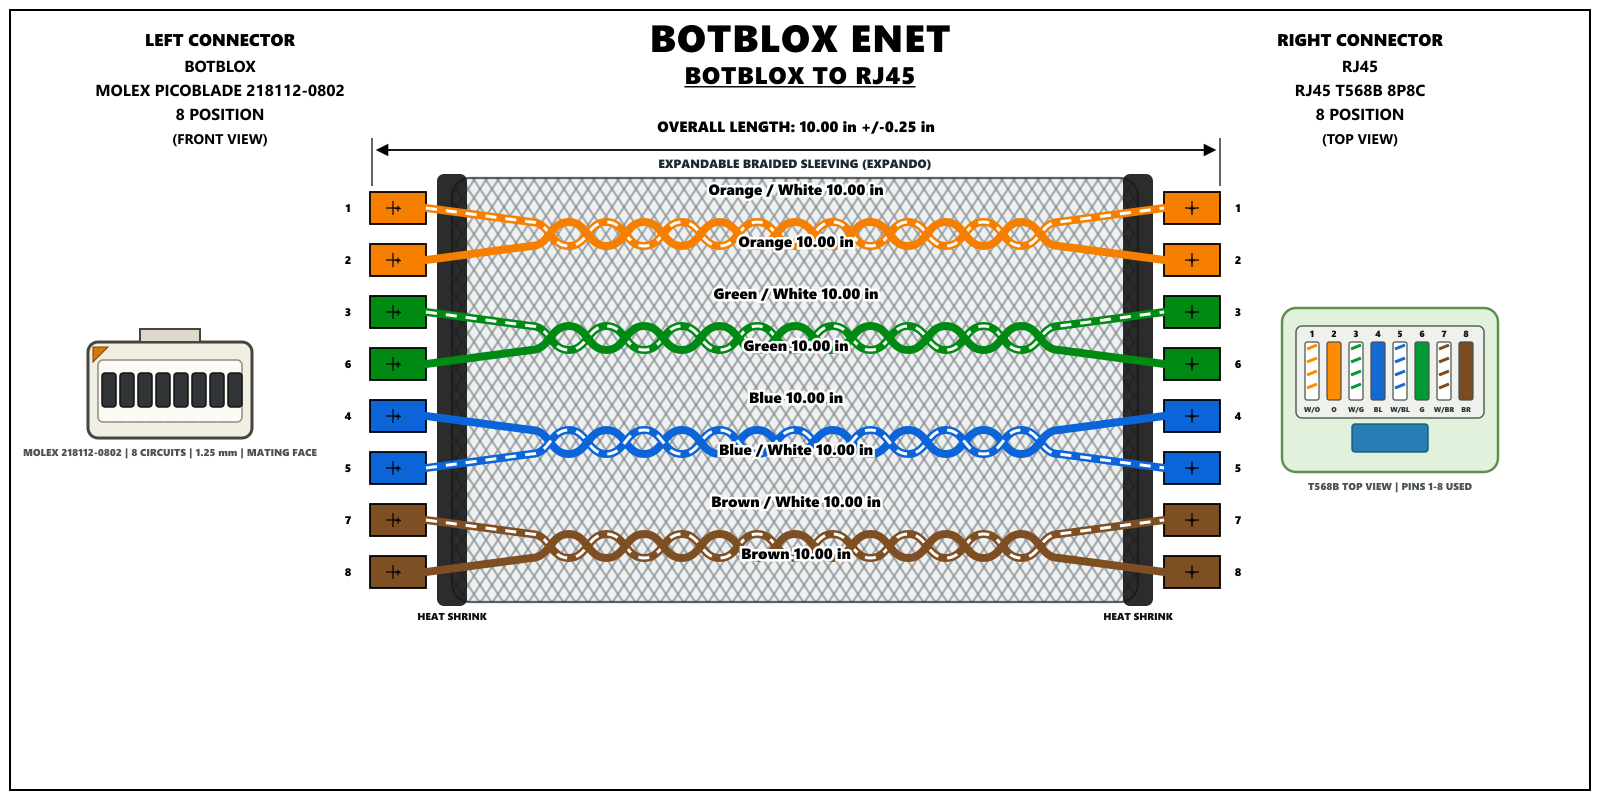
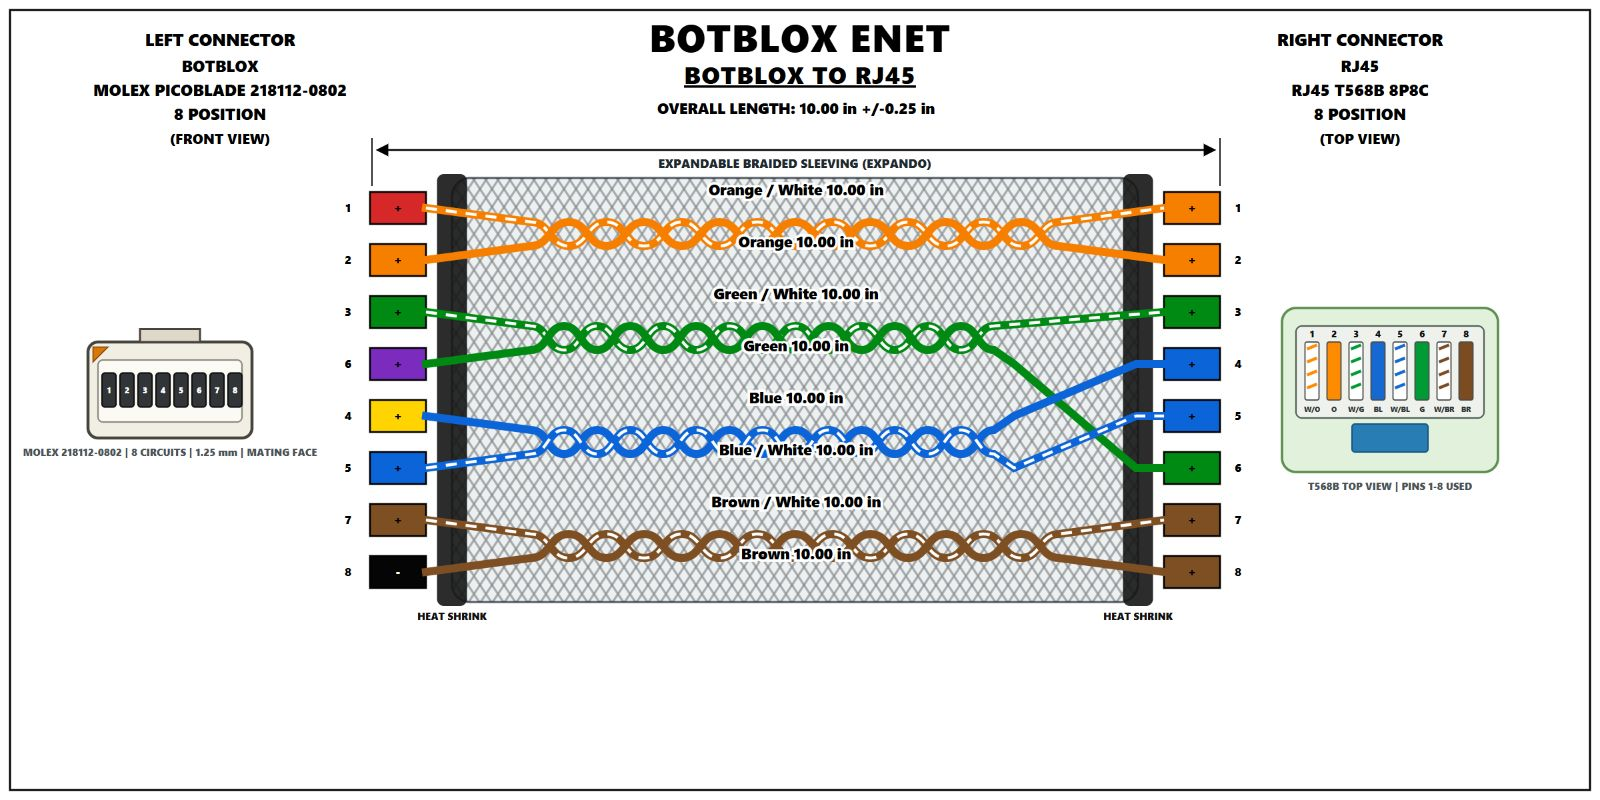
Separate left terminal colors and order RJ45 pins in v2.1.9

diff --git a/app.js b/app.js
@@ -1,6 +1,6 @@
 "use strict";
 
-const APP_VERSION = "2.1.8";
+const APP_VERSION = "2.1.9";
 const HarnessCore = globalThis.DigiWireCore;
 if (!HarnessCore) {
   throw new Error("DIGIWIRE harness-core.js must load before app.js.");
@@ -2511,8 +2511,19 @@ function analyzeSheetTwistedPairs(routes) {
 }
 
 function sheetWireRouteGeometry(route, pairAnalysis, leftX, rightX) {
+  const targetY = route.rightPinOrdered && Number.isFinite(route.rightTargetY) ? route.rightTargetY : route.y;
+  const hasRightFanout = targetY !== route.y;
   const membership = pairAnalysis.byRouteIndex.get(route.index);
   if (!membership) {
+    if (hasRightFanout) {
+      const fanoutX = rightX - 92;
+      const settleX = rightX - 28;
+      return {
+        twisted: false,
+        points: [[leftX, route.y], [fanoutX, route.y], [settleX, targetY], [rightX, targetY]],
+        svgPath: `M ${leftX} ${route.y} L ${fanoutX} ${route.y} L ${settleX} ${targetY} L ${rightX} ${targetY}`
+      };
+    }
     return {
       twisted: false,
       points: [[leftX, route.y], [rightX, route.y]],
@@ -2520,23 +2531,31 @@ function sheetWireRouteGeometry(route, pairAnalysis, leftX, rightX) {
     };
   }
   const { group, memberIndex } = membership;
+  const pairHasRightFanout = group.routes.some((wire) => wire.rightPinOrdered && Number.isFinite(wire.rightTargetY) && wire.rightTargetY !== wire.y);
   const pairMidY = average(group.routes.map((item) => item.y));
   const separation = Math.abs(group.routes[0].y - group.routes[1].y);
   const amplitude = clamp(separation * 0.36, 7, 12);
   const sign = memberIndex === 0 ? -1 : 1;
   const twistStartX = leftX + 105;
-  const twistEndX = rightX - 105;
+  const twistEndX = rightX - (pairHasRightFanout ? 170 : 105);
   const halfWaveCount = 14;
   const halfWaveWidth = (twistEndX - twistStartX) / halfWaveCount;
   const wavePoints = Array.from({ length: halfWaveCount + 1 }, (_, index) => [
     twistStartX + index * halfWaveWidth,
     pairMidY + sign * amplitude * (index % 2 ? -1 : 1)
   ]);
-  const points = [[leftX, route.y], ...wavePoints, [rightX, route.y]];
+  const fanoutStartX = twistEndX + 20;
+  const settleX = rightX - 28;
+  const points = hasRightFanout
+    ? [[leftX, route.y], ...wavePoints, [fanoutStartX, route.y], [settleX, targetY], [rightX, targetY]]
+    : [[leftX, route.y], ...wavePoints, [rightX, route.y]];
+  const svgPath = hasRightFanout
+    ? `${smoothTwistedPairSvgPath([[leftX, route.y], ...wavePoints, [fanoutStartX, route.y]])} L ${settleX} ${targetY} L ${rightX} ${targetY}`
+    : smoothTwistedPairSvgPath(points);
   return {
     twisted: true,
     points,
-    svgPath: smoothTwistedPairSvgPath(points)
+    svgPath
   };
 }
 
@@ -5531,6 +5550,7 @@ function buildKiCadHarnessModel(sheet) {
     const leftWireName = sheetRowLeftWireName(row, `WIRE ${index + 1}`);
     const rightWireName = sheetRowRightWireName(row, `WIRE ${index + 1}`);
     const colorSource = kiCadWireColorSource(row, useRightT568bColors);
+    const leftTerminalColorSource = isRecognizedWireColor(row.color) ? row.color : colorSource;
     return {
       index,
       row,
@@ -5540,6 +5560,9 @@ function buildKiCadHarnessModel(sheet) {
       colorName: normalizeColorName(colorSource),
       colorLabel: normalizeWireColorLabel(colorSource),
       stroke: sheetColorToStroke(colorSource),
+      leftTerminalColorName: normalizeColorName(leftTerminalColorSource),
+      leftTerminalColorLabel: normalizeWireColorLabel(leftTerminalColorSource),
+      leftTerminalStroke: sheetColorToStroke(leftTerminalColorSource),
       awg: row.awg || awg,
       length: row.length || length,
       fromPin: row.leftPinPos || String(index + 1),
@@ -5560,8 +5583,20 @@ function buildKiCadHarnessModel(sheet) {
   const rightConnectorIsRj45 = normalizeText(`${rightName} ${rightType} ${rightHousingPart}`).includes("RJ45");
   if (rightConnectorIsRj45 && rightConnectorGroups.length === 1) {
     wires.forEach((wire) => {
-      wire.rightTargetY = wire.y;
+      const pin = numericPin(wire.toPin);
+      wire.rightPinOrdered = useRightT568bColors;
+      wire.rightTargetY = useRightT568bColors && Number.isFinite(pin) ? wireStartY + (pin - 1) * wireGap : wire.y;
     });
+    if (useRightT568bColors) {
+      const group = rightConnectorGroups[0];
+      group.slots.forEach((slot) => {
+        if (slot.wire) {
+          slot.y = slot.wire.rightTargetY;
+        }
+      });
+      group.top = wireStartY - 24;
+      group.bottom = wireStartY + (Math.max(1, group.positionCount) - 1) * wireGap + 24;
+    }
   }
   if (hasMultipleRightConnectors) {
     alignKiCadWiresToRightConnectorGroups(wires, rightConnectorGroups);
@@ -6232,8 +6267,8 @@ function buildKiCadHarnessSvg(result, model) {
   <line class="dim-ext" x1="372" y1="138" x2="372" y2="186" />
   <line class="dim-ext" x1="1220" y1="138" x2="1220" y2="186" />
   <line class="dimension" x1="382" y1="150" x2="1210" y2="150" />
-  <rect class="dim-label-bg" x="630" y="112" width="332" height="28" rx="5" />
-  <text class="dim-text" x="796" y="132">OVERALL LENGTH: ${escapeXml(formatLengthMeasurement(displayModel.length))} +/-0.25 in</text>
+  <rect class="dim-label-bg" x="630" y="94" width="332" height="28" rx="5" />
+  <text class="dim-text" x="796" y="114">OVERALL LENGTH: ${escapeXml(formatLengthMeasurement(displayModel.length))} +/-0.25 in</text>
 
   ${buildHorizontalProtectionSvg({
     x1: 452,
@@ -6724,13 +6759,14 @@ function buildKiCadRj45ConnectorFaceSvg(x, wires, connector, side) {
   wires.forEach((wire) => {
     const pin = side === "left" ? wire.fromPin : wire.toPin;
     const pinX = side === "left" ? 348 : 1238;
-    output.push(`<text class="pin-label-compact" x="${pinX}" y="${wire.y + 4}">${escapeXml(pin)}</text>`);
+    const pinY = side === "right" && wire.rightPinOrdered && Number.isFinite(wire.rightTargetY) ? wire.rightTargetY : wire.y;
+    output.push(`<text class="pin-label-compact" x="${pinX}" y="${pinY + 4}">${escapeXml(pin)}</text>`);
   });
   return output.join("");
 }
 
 function buildKiCadPicoBladeConnectorFaceSvg(x, wires, connector, side) {
-  const slots = buildKiCadConnectorSlots(wires, connector, side);
+  const slots = buildKiCadConnectorSlots(wires, connector, side).sort((left, right) => numericPin(left.pin) - numericPin(right.pin));
   const centerY = (wires[0].y + wires[wires.length - 1].y) / 2;
   const faceX = x - 82;
   const faceY = centerY - 48;
@@ -6746,7 +6782,7 @@ function buildKiCadPicoBladeConnectorFaceSvg(x, wires, connector, side) {
   slots.forEach((slot, index) => {
     const slotX = faceX + 14 + index * 18;
     output.push(`<rect class="${slot.wire ? "picoblade-cavity" : "picoblade-cavity-unused"}" x="${slotX}" y="${faceY + 31}" width="14" height="34" rx="3" />`);
-    output.push(`<text class="picoblade-pin" x="${slotX + 7}" y="${faceY + 79}">${escapeXml(slot.pin)}</text>`);
+    output.push(`<text class="picoblade-pin" x="${slotX + 7}" y="${faceY + 51}">${escapeXml(slot.pin)}</text>`);
   });
   output.push(`<text class="connector-unused-note" x="${faceX + width / 2}" y="${faceY + height + 18}">MOLEX 218112-0802 | 8 CIRCUITS | 1.25 mm | MATING FACE</text>`);
   output.push(`</g>`);
@@ -6907,22 +6943,21 @@ function buildKiCadWireSvg(wire, {
   pairAnalysis = { byRouteIndex: new Map() }
 } = {}) {
   const color = wire.stroke;
-  const textColorClass = wire.colorName === "RED" ? "table-red" : "table-text";
+  const leftTerminalColor = wire.leftTerminalStroke || color;
+  const leftTerminalColorName = wire.leftTerminalColorName || wire.colorName;
+  const targetY = wire.rightPinOrdered && Number.isFinite(wire.rightTargetY) ? wire.rightTargetY : wire.y;
   const terminalHeight = compact ? 18 : 32;
   const terminalHalf = terminalHeight / 2;
-  const markHalf = compact ? 4 : 7;
   const wireStartX = leftPcb ? 300 : 426;
   const wireEndX = rightPcb ? 1316 : 1164;
   const colorSpec = wireColorSpec(wire.colorLabel || wire.colorName || wire.row?.color);
   const routeGeometry = sheetWireRouteGeometry(wire, pairAnalysis, wireStartX, wireEndX);
   const leftTerminal = leftPcb ? "" : `
-  <rect class="terminal" x="370" y="${wire.y - terminalHalf}" width="56" height="${terminalHeight}" fill="${color}" />
-  <path class="terminal-mark" d="M 393 ${wire.y - markHalf} L 393 ${wire.y + markHalf} M ${393 - markHalf} ${wire.y} L ${393 + markHalf} ${wire.y}" />
-  <text class="${textColorClass}" x="398" y="${wire.y + 4}">${escapeXml(wire.colorName === "BLACK" ? "-" : "+")}</text>`;
+  <rect class="terminal" x="370" y="${wire.y - terminalHalf}" width="56" height="${terminalHeight}" fill="${leftTerminalColor}" />
+  <text class="table-text" style="fill:${leftTerminalColorName === "BLACK" ? "#ffffff" : "#000000"}" x="398" y="${wire.y + 4}">${escapeXml(leftTerminalColorName === "BLACK" ? "-" : "+")}</text>`;
   const rightTerminal = rightPcb ? "" : `
-  <rect class="terminal" x="1164" y="${wire.y - terminalHalf}" width="56" height="${terminalHeight}" fill="${color}" />
-  <path class="terminal-mark" d="M 1192 ${wire.y - markHalf} L 1192 ${wire.y + markHalf} M ${1192 - markHalf} ${wire.y} L ${1192 + markHalf} ${wire.y}" />
-  <text class="${textColorClass}" x="1192" y="${wire.y + 4}">${escapeXml(wire.colorName === "BLACK" ? "-" : "+")}</text>`;
+  <rect class="terminal" x="1164" y="${targetY - terminalHalf}" width="56" height="${terminalHeight}" fill="${color}" />
+  <text class="table-text" style="fill:${wire.colorName === "BLACK" ? "#ffffff" : "#000000"}" x="1192" y="${targetY + 4}">${escapeXml(wire.colorName === "BLACK" ? "-" : "+")}</text>`;
   return `
   ${leftTerminal}
   ${rightTerminal}
@@ -9839,18 +9874,20 @@ function buildKiCadHarnessDrawioXml(result, model) {
     const wireStartX = leftIsPcb ? 300 : 426;
     const wireEndX = rightIsPcb ? 1316 : 1164;
     const twistGeometry = sheetWireRouteGeometry(wire, pairAnalysis, wireStartX, wireEndX);
-    const wirePoints = twistGeometry.twisted
+    const wirePoints = twistGeometry.twisted || wire.rightPinOrdered
       ? twistGeometry.points
       : [[wireStartX, wire.y], [wireEndX, targetY]];
-    const terminalStyle = `rounded=0;whiteSpace=wrap;html=1;fillColor=${wire.stroke};strokeColor=#000000;strokeWidth=2;fontStyle=1;fontColor=${wire.colorName === "BLACK" ? "#ffffff" : "#000000"};`;
+    const leftTerminalColorName = wire.leftTerminalColorName || wire.colorName;
+    const leftTerminalStyle = `rounded=0;whiteSpace=wrap;html=1;fillColor=${wire.leftTerminalStroke || wire.stroke};strokeColor=#000000;strokeWidth=2;fontStyle=1;fontColor=${leftTerminalColorName === "BLACK" ? "#ffffff" : "#000000"};`;
+    const rightTerminalStyle = `rounded=0;whiteSpace=wrap;html=1;fillColor=${wire.stroke};strokeColor=#000000;strokeWidth=2;fontStyle=1;fontColor=${wire.colorName === "BLACK" ? "#ffffff" : "#000000"};`;
     if (!leftIsCircular && !leftIsPcb && !leftIsPicoBlade) {
       addVertex(`left_cavity_${index}`, "", 194, wire.y - 17, 38, 34, "rounded=1;whiteSpace=wrap;html=1;fillColor=#000000;strokeColor=#000000;strokeWidth=1;");
     }
     if (!leftIsPcb) {
-      addVertex(`left_term_${index}`, wire.colorName === "BLACK" ? "-" : "+", 370, wire.y - 16, 56, 32, terminalStyle);
+      addVertex(`left_term_${index}`, leftTerminalColorName === "BLACK" ? "-" : "+", 370, wire.y - 16, 56, 32, leftTerminalStyle);
     }
     if (!rightIsPcb) {
-      addVertex(`right_term_${index}`, wire.colorName === "BLACK" ? "-" : "+", 1164, targetY - 16, 56, 32, terminalStyle);
+      addVertex(`right_term_${index}`, wire.colorName === "BLACK" ? "-" : "+", 1164, targetY - 16, 56, 32, rightTerminalStyle);
     }
     addRoutedEdge(
       `wire_${index}`,
@@ -9909,7 +9946,6 @@ function buildKiCadHarnessDrawioXml(result, model) {
   // Add pin numbers last so they remain above wires, terminals, and connector faces.
   model.wires.forEach((wire, index) => {
     const targetY = rightIsPcb ? wire.y : wire.rightTargetY || wire.y;
-    const pinFontColor = wire.colorName === "BLACK" ? "#ffffff" : "#000000";
     addVertex(
       `left_pin_num_${index}`,
       wire.fromPin,
@@ -9917,7 +9953,7 @@ function buildKiCadHarnessDrawioXml(result, model) {
       wire.y - 14,
       55,
       28,
-      `text;html=1;strokeColor=none;fillColor=none;labelBackgroundColor=none;fontSize=16;fontStyle=1;fontColor=${pinFontColor};align=center;`
+      "text;html=1;strokeColor=none;fillColor=none;labelBackgroundColor=none;fontSize=16;fontStyle=1;fontColor=#000000;align=center;"
     );
     if (!rightIsPcb) {
       addVertex(
@@ -9927,7 +9963,7 @@ function buildKiCadHarnessDrawioXml(result, model) {
         targetY - 14,
         55,
         28,
-        `text;html=1;strokeColor=none;fillColor=none;labelBackgroundColor=none;fontSize=16;fontStyle=1;fontColor=${pinFontColor};align=center;`
+        "text;html=1;strokeColor=none;fillColor=none;labelBackgroundColor=none;fontSize=16;fontStyle=1;fontColor=#000000;align=center;"
       );
     }
   });
@@ -10229,7 +10265,7 @@ function addKiCadDrawioRj45Face(addVertex, connector, wires, side) {
 }
 
 function addKiCadDrawioPicoBladeFace(addVertex, connector, wires, side) {
-  const slots = buildKiCadConnectorSlots(wires, connector, side);
+  const slots = buildKiCadConnectorSlots(wires, connector, side).sort((left, right) => numericPin(left.pin) - numericPin(right.pin));
   const centerY = (wires[0].y + wires[wires.length - 1].y) / 2;
   const faceX = side === "left" ? 88 : 1278;
   const faceY = centerY - 48;

diff --git a/index.html b/index.html
@@ -3,8 +3,8 @@
   <head>
     <meta charset="utf-8">
     <meta name="viewport" content="width=device-width, initial-scale=1">
-    <title>DIGIWIRE v2.1.8</title>
-    <link rel="stylesheet" href="styles.css?v=2.1.8">
+    <title>DIGIWIRE v2.1.9</title>
+    <link rel="stylesheet" href="styles.css?v=2.1.9">
   </head>
   <body>
     <main class="app-shell">
@@ -135,7 +135,7 @@
 
     <canvas id="workCanvas" hidden></canvas>
     <script src="vendor/tesseract/tesseract.min.js" defer></script>
-    <script src="harness-core.js?v=2.1.8" defer></script>
-    <script src="app.js?v=2.1.8" defer></script>
+    <script src="harness-core.js?v=2.1.9" defer></script>
+    <script src="app.js?v=2.1.9" defer></script>
   </body>
 </html>

diff --git a/desktop/WiringHarnessDesigner.cs b/desktop/WiringHarnessDesigner.cs
@@ -8,8 +8,8 @@ using System.Windows.Forms;
 [assembly: AssemblyDescription("Offline sketch-to-schematic wiring harness reader")]
 [assembly: AssemblyCompany("DIGIWIRE")]
 [assembly: AssemblyProduct("DIGIWIRE")]
-[assembly: AssemblyVersion("2.1.8.0")]
-[assembly: AssemblyFileVersion("2.1.8.0")]
+[assembly: AssemblyVersion("2.1.9.0")]
+[assembly: AssemblyFileVersion("2.1.9.0")]
 
 internal static class WiringHarnessDesignerProgram
 {

diff --git a/README.md b/README.md
@@ -4,9 +4,9 @@ A streamlined Excel-to-Draw.io wiring harness converter and editor.
 
 **Live app:** https://darnell-ai.github.io/wiring-harness-designer/
 
-Current release: **v2.1.8**
+Current release: **v2.1.9**
 
-DigiWire 2.1.8 renders complete T568B RJ45 harnesses using the right-side wire names and stripe patterns: white/orange, orange, white/green, blue, white/blue, green, white/brown, and brown. Other harness types continue to use the submitted Color column.
+DigiWire 2.1.9 keeps complete T568B conductors in their right-side colors while independently coloring each left terminal housing from the submitted left Color column. Right terminal housings are arranged by actual RJ45 pin number 1-8 with a compact fan-out from the twisted-pair lanes.
 
 Connector housings are resolved from the left/right housing part-number columns before descriptive housing text. Known Molex and TE part-number families select their matching connector-face profile. An unknown part number is shown as an explicit unverified profile with an exact DigiKey lookup link instead of being guessed from a label such as `3 POS FRONT LOCK`.
 

diff --git a/CHANGELOG.md b/CHANGELOG.md
@@ -1,5 +1,13 @@
 # Changelog
 
+## v2.1.9 - 2026-08-27
+
+- Separated left terminal-housing color from conductor color so the BOTBLOX side remains red, orange, green, purple, yellow, blue, brown, and black.
+- Arranged right terminal housings in numeric RJ45 order from pin 1 through pin 8.
+- Added a compact right-side fan-out between the adjacent twisted-pair lanes and the numerically ordered RJ45 terminals.
+- Added regression coverage for both terminal color systems and the right-pin target positions.
+- Kept PicoBlade cavity numbering physical, improved terminal-label contrast, and separated the SVG length and sleeve captions.
+
 ## v2.1.8 - 2026-08-26
 
 - Made the right-side wire names authoritative for conductor colors and stripe patterns when the submitted termination is a complete eight-pin T568B RJ45 mapping.
